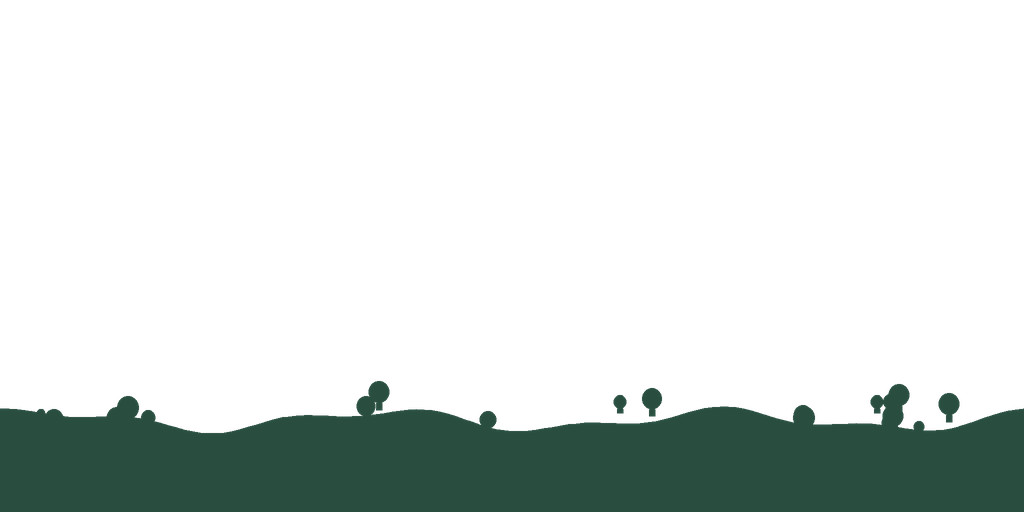
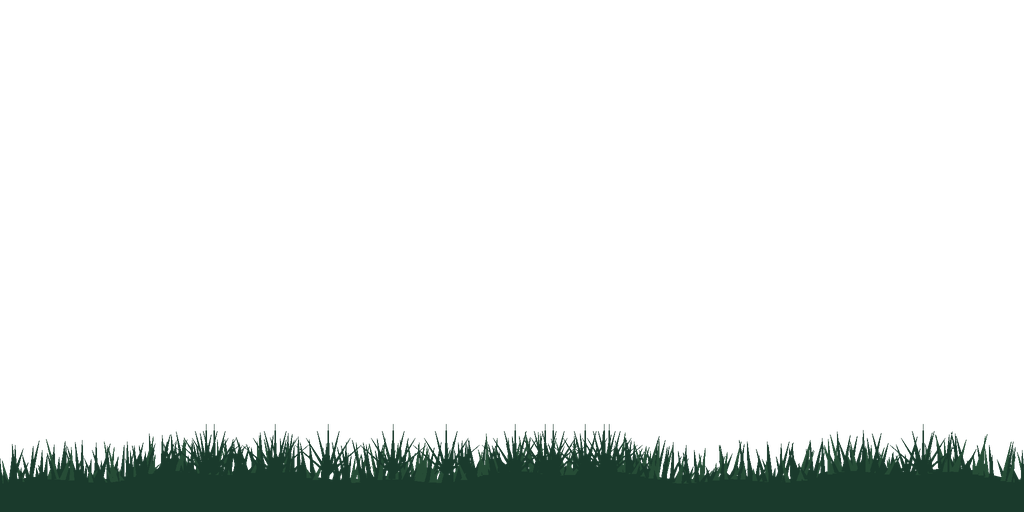
Rebuild Meadow with distinct layer motifs (#606)

Changed region(s): [[0.0, 0.75, 1.0, 0.9375]]

diff --git a/tools/art/background_presets.py b/tools/art/background_presets.py
@@ -31,6 +31,124 @@ def mix(a, b, t):
     return tuple(round(x + (y-x)*t) for x, y in zip(a, b))
 
 
+def meadow_layer(slot, rng, polygon, ellipse, draw, w, h, scale, period):
+    """One distinct motif per depth: sky, far peaks, farmland, forest, near meadow, foreground grass."""
+    def ridge(base, waves):
+        points = []
+        for x in range(-64, w+65, 4):
+            phase = 2*math.pi*x/period
+            points.append((x, base+sum(a*math.sin(phase*n+o) for a, n, o in waves)))
+        return points
+
+    def land(points, colour):
+        polygon(points+[(w+64, h+2), (-64, h+2)], (*colour, 255))
+
+    def height_at(points, x):
+        x %= period
+        return min(points, key=lambda p: abs(p[0]-x))[1]
+
+    if slot == 0:
+        top, bottom = (92, 158, 204), (236, 234, 200)
+        for y in range(h*scale):
+            draw.line((0, y, w*scale, y), fill=(*mix(top, bottom, (y/(h*scale-1))**.8), 255))
+        # Layered cumulus: bright crowns over a soft, sky-tinted base.
+        for _ in range(6):
+            x, y, size = rng.randrange(period), rng.randrange(36, 120), rng.randrange(22, 54)
+            sky = mix(top, bottom, y/h)
+            puffs = [(x+rng.randint(-size*2, size*2), y+rng.randint(-size//5, size//6), rng.randint(size//2, size))
+                     for _ in range(9)]
+            for shade, lift in ((.45, -.05), (.8, .16), (.97, .3)):
+                colour = mix(sky, (255, 253, 244), shade)
+                for px, py, r in puffs:
+                    r = r*(1-lift*.6)
+                    ellipse((px-r*1.25, py-r*(.55+lift)-lift*12, px+r*1.25, py+r*.34-lift*12), (*colour, 255))
+    elif slot == 1:
+        # Far blue peaks with snow caps; hazy, widely spaced, no trees.
+        rock, snow = (136, 165, 186), (230, 238, 240)
+        for _ in range(7):
+            x, base, half = rng.randrange(period), 330, rng.randrange(70, 170)
+            peak = rng.randrange(120, 210)
+            mid = x+rng.randint(-half//4, half//4)
+            polygon([(x-half, base+40), (mid, peak), (x+half, base+40)], (*rock, 255))
+            polygon([(mid, peak), (x+half, base+40), (mid+half*.1, base+40)], (*mix(rock, (104, 132, 158), .55), 255))
+            cap = .22
+            lx, rx = mid+(x-half-mid)*cap, mid+(x+half-mid)*cap
+            ly = peak+(base+40-peak)*cap
+            polygon([(mid, peak), (rx, ly), (mid+(rx-mid)*.35, ly+9), (mid, ly-3), (mid-(mid-lx)*.4, ly+11), (lx, ly)], (*snow, 255))
+        land(ridge(345, [(9, 3, .4), (5, 7, 1.2)]), (150, 178, 186))
+    elif slot == 2:
+        # Sunlit farmland: rolling hills cut into field strips, hedges and tiny barns.
+        for base, colour, seed_offset in ((325, (150, 186, 138), 0), (372, (128, 172, 112), 2)):
+            line = ridge(base, [(20, 2, seed_offset), (10, 5, 1+seed_offset)])
+            land(line, colour)
+            for _ in range(11):
+                x, width = rng.randrange(period), rng.randrange(50, 130)
+                y = height_at(line, x)+rng.randrange(14, 70)
+                tone = mix(colour, rng.choice([(226, 210, 122), (178, 204, 112), (108, 150, 96)]), .6)
+                polygon([(x, y), (x+width, y-5), (x+width+22, y+22), (x+18, y+27)], (*tone, 255))
+                polygon([(x, y-2), (x+width, y-7), (x+width, y-4), (x, y+1)], (*mix(colour, (62, 104, 74), .7), 255))
+        for _ in range(4):
+            x = rng.randrange(period)
+            y = height_at(ridge(325, [(20, 2, 0), (10, 5, 1)]), x)+5
+            polygon([(x, y), (x, y-11), (x+7, y-17), (x+14, y-11), (x+14, y)], (160, 76, 62, 255))
+    elif slot == 3:
+        # Dense forest edge: mixed conifers and round crowns, darker toward the ground.
+        dark, mid_tone, light = (44, 92, 80), (62, 116, 92), (86, 142, 104)
+        line = ridge(372, [(12, 3, 1.1), (6, 8, .3)])
+        land(line, dark)
+        trees = [(rng.randrange(period), rng.random(), rng.randrange(42, 104)) for _ in range(120)]
+        for x, kind, tall in sorted(trees, key=lambda t: t[2], reverse=True):
+            y = height_at(line, x)+12
+            if kind < .55:
+                for tier in range(4):
+                    top = y-tall+tier*tall*.2
+                    half = tall*(.13+tier*.055)
+                    polygon([(x-half, top+tall*.36), (x, top), (x+half, top+tall*.36)], (*(dark if tier % 2 else mid_tone), 255))
+            else:
+                r = tall*.32
+                ellipse((x-r, y-tall*.85, x+r, y-tall*.2), (*mid_tone, 255))
+                ellipse((x-r*.75, y-tall*.84, x+r*.35, y-tall*.46), (*light, 255))
+                polygon([(x-3, y), (x+3, y), (x+2, y-tall*.3), (x-2, y-tall*.3)], (*dark, 255))
+    elif slot == 4:
+        # Near meadow: a warm grass bank with bushes, a fence and flower dots.
+        grass, shade = (92, 144, 72), (66, 118, 62)
+        line = ridge(425, [(16, 2, 2.1), (7, 5, .6)])
+        for _ in range(16):
+            x, r = rng.randrange(period), rng.randrange(18, 50)
+            y = height_at(line, x)+6
+            ellipse((x-r*1.3, y-r, x+r*1.3, y+r*.5), (*shade, 255))
+            ellipse((x-r*.8, y-r*.92, x+r*.5, y-r*.1), (*grass, 255))
+        land(line, grass)
+        for start in range(0, period, 340):
+            for i in range(6):
+                x = start+40+i*30
+                y = height_at(line, x)
+                polygon([(x-2, y+3), (x+2, y+3), (x+2, y-27), (x-2, y-27)], (118, 92, 66, 255))
+                if i < 5:
+                    y2 = height_at(line, x+30)
+                    polygon([(x, y-20), (x+30, y2-20), (x+30, y2-17), (x, y-17)], (138, 110, 78, 255))
+        for _ in range(170):
+            x = rng.randrange(period)
+            y = height_at(line, x)+rng.randrange(8, 80)
+            colour = rng.choice([(244, 232, 150), (246, 246, 236), (226, 134, 150), (112, 170, 84)])
+            ellipse((x-1.6, y-1.6, x+1.6, y+1.6), (*colour, 255))
+    else:
+        # Foreground: a low dark grass and fern fringe, about a seventh of the image high.
+        dark, tone = (26, 58, 44), (38, 76, 54)
+        line = ridge(474, [(5, 3, .7), (3, 9, 1.9)])
+        land(line, dark)
+        for _ in range(620):
+            x = rng.randrange(period)
+            y = height_at(line, x)+3
+            tall, lean = rng.randrange(10, 42), rng.randint(-11, 11)
+            polygon([(x-2.2, y), (x+2.2, y), (x+lean, y-tall)], (*(tone if rng.random() < .35 else dark), 255))
+        for _ in range(13):
+            x, y = rng.randrange(period), 468
+            for frond in range(-3, 4):
+                tip = (x+frond*11, y-44+abs(frond)*7)
+                polygon([(x-2, y+6), (x+2, y+6), tip], (*dark, 255))
+
+
 def image_for(preset, slot):
     seed, _, colours = PRESETS[preset]
     colours = [rgb(c) for c in colours]
@@ -50,7 +168,9 @@ def image_for(preset, slot):
             x0, y0, x1, y1 = box
             draw.ellipse(((x0+offset)*scale, y0*scale, (x1+offset)*scale, y1*scale), fill=colour)
 
-    if slot == 0:
+    if preset == 'meadow':
+        meadow_layer(slot, rng, polygon, ellipse, draw, w, h, scale, period)
+    elif slot == 0:
         for y in range(h*scale):
             draw.line((0, y, w*scale, y), fill=(*mix(colours[0], colours[1], y/(h*scale-1)), 255))
         # Thin, soft cloud banks, not a fixed sun repeated every tile.
@@ -81,13 +201,6 @@ def image_for(preset, slot):
                         if rng.random() < .35:
                             colour = mix(base, colours[1], .25 if slot < 4 else .4)
                             polygon([(wx,wy),(wx+3,wy),(wx+3,wy+5),(wx,wy+5)], (*colour,255))
-        elif preset == 'meadow':
-            for _ in range(24):
-                x = rng.randrange(period)
-                y = baseline+rng.randrange(-10, 25)
-                height = rng.randrange(18, 75) if not foreground else rng.randrange(12, 32)
-                polygon([(x-3,y),(x+3,y),(x+2,y-height),(x-2,y-height)], (*base,255))
-                ellipse((x-height*.35,y-height,x+height*.35,y-height*.25), (*base,255))
         else:
             for _ in range(28):
                 x = rng.randrange(period)
@@ -109,10 +222,14 @@ def image_for(preset, slot):
     return image
 
 
-def thumbnail(layers):
+def thumbnail(layers, preset=''):
     result = layers[0].copy()
     for layer in layers[1:5]:
         result.alpha_composite(layer)
+    # #603 shows the complete foreground at viewport height; other presets keep their strip until they are rebuilt.
+    if preset == 'meadow':
+        result.alpha_composite(layers[5])
+        return result.resize(THUMB, Image.Resampling.LANCZOS)
     # Runtime confines foreground to a lower safe strip; show that separate strip here.
     fg = layers[5].crop((0,384,1024,512)).resize((1024,64), Image.Resampling.LANCZOS)
     result.alpha_composite(fg, (0,448))
@@ -130,7 +247,7 @@ def write():
         folder = OUT/preset
         folder.mkdir(exist_ok=True)
         layers = [image_for(preset, slot) for slot in range(6)]
-        images = layers+[thumbnail(layers)]
+        images = layers+[thumbnail(layers, preset)]
         entries = {}
         for filename, image in zip(FILES, images):
             path = folder/f'{filename}.png'
@@ -183,7 +300,7 @@ def check(out=OUT):
                             errors.append('sky is not opaque')
                     elif alpha.crop((0,0,1024,1)).getextrema() != (0,0) or alpha.getextrema() != (0,255):
                         errors.append('overlay alpha differs')
-            if len(images) == 7 and images[-1].tobytes() != thumbnail(images[:6]).tobytes():
+            if len(images) == 7 and images[-1].tobytes() != thumbnail(images[:6], preset['id']).tobytes():
                 errors.append('thumbnail differs from layers')
     except (OSError, ValueError, KeyError, TypeError) as exc:
         errors.append(str(exc))

diff --git a/main/background_presets/PROVENANCE.md b/main/background_presets/PROVENANCE.md
@@ -6,4 +6,6 @@ Run `python tools/art/background_presets.py --write` to reproduce all outputs; `
 
 Each of Meadow, Quarry, City and Volcano has five 1024×512 RGBA background layers, one 1024×512 RGBA foreground and a 256×128 composited thumbnail. Layer 1 is opaque sky; layers 2–5 and foreground have transparent upper regions. Horizontal endpoints match after antialiasing. Vertical edge pixels, including alpha, extend under the runtime's clamp rule. Foreground composition remains subject to the runtime vehicle-safe strip.
 
-The set uses muted distant shapes and stronger near silhouettes: trees and hills, cut stone, an original city skyline, and volcanic rock with small amber fissures. These are static environment art, with no weather or animation. Claudio judges art direction in #549; pixel checks establish technical integrity only. Kenney test fixtures are separate and remain unchanged.
+Meadow (#606) uses a separate motif per depth: cumulus sky, snow-capped far peaks, farmland with hedges and barns, mixed forest, a near meadow with bushes, fence and flowers, and a low grass and fern foreground. The other presets stay unchanged until Claudio accepts this direction.
+
+The other sets use muted distant shapes and stronger near silhouettes: cut stone, an original city skyline, and volcanic rock with small amber fissures. These are static environment art, with no weather or animation. Claudio judges art direction in #549; pixel checks establish technical integrity only. Kenney test fixtures are separate and remain unchanged.
